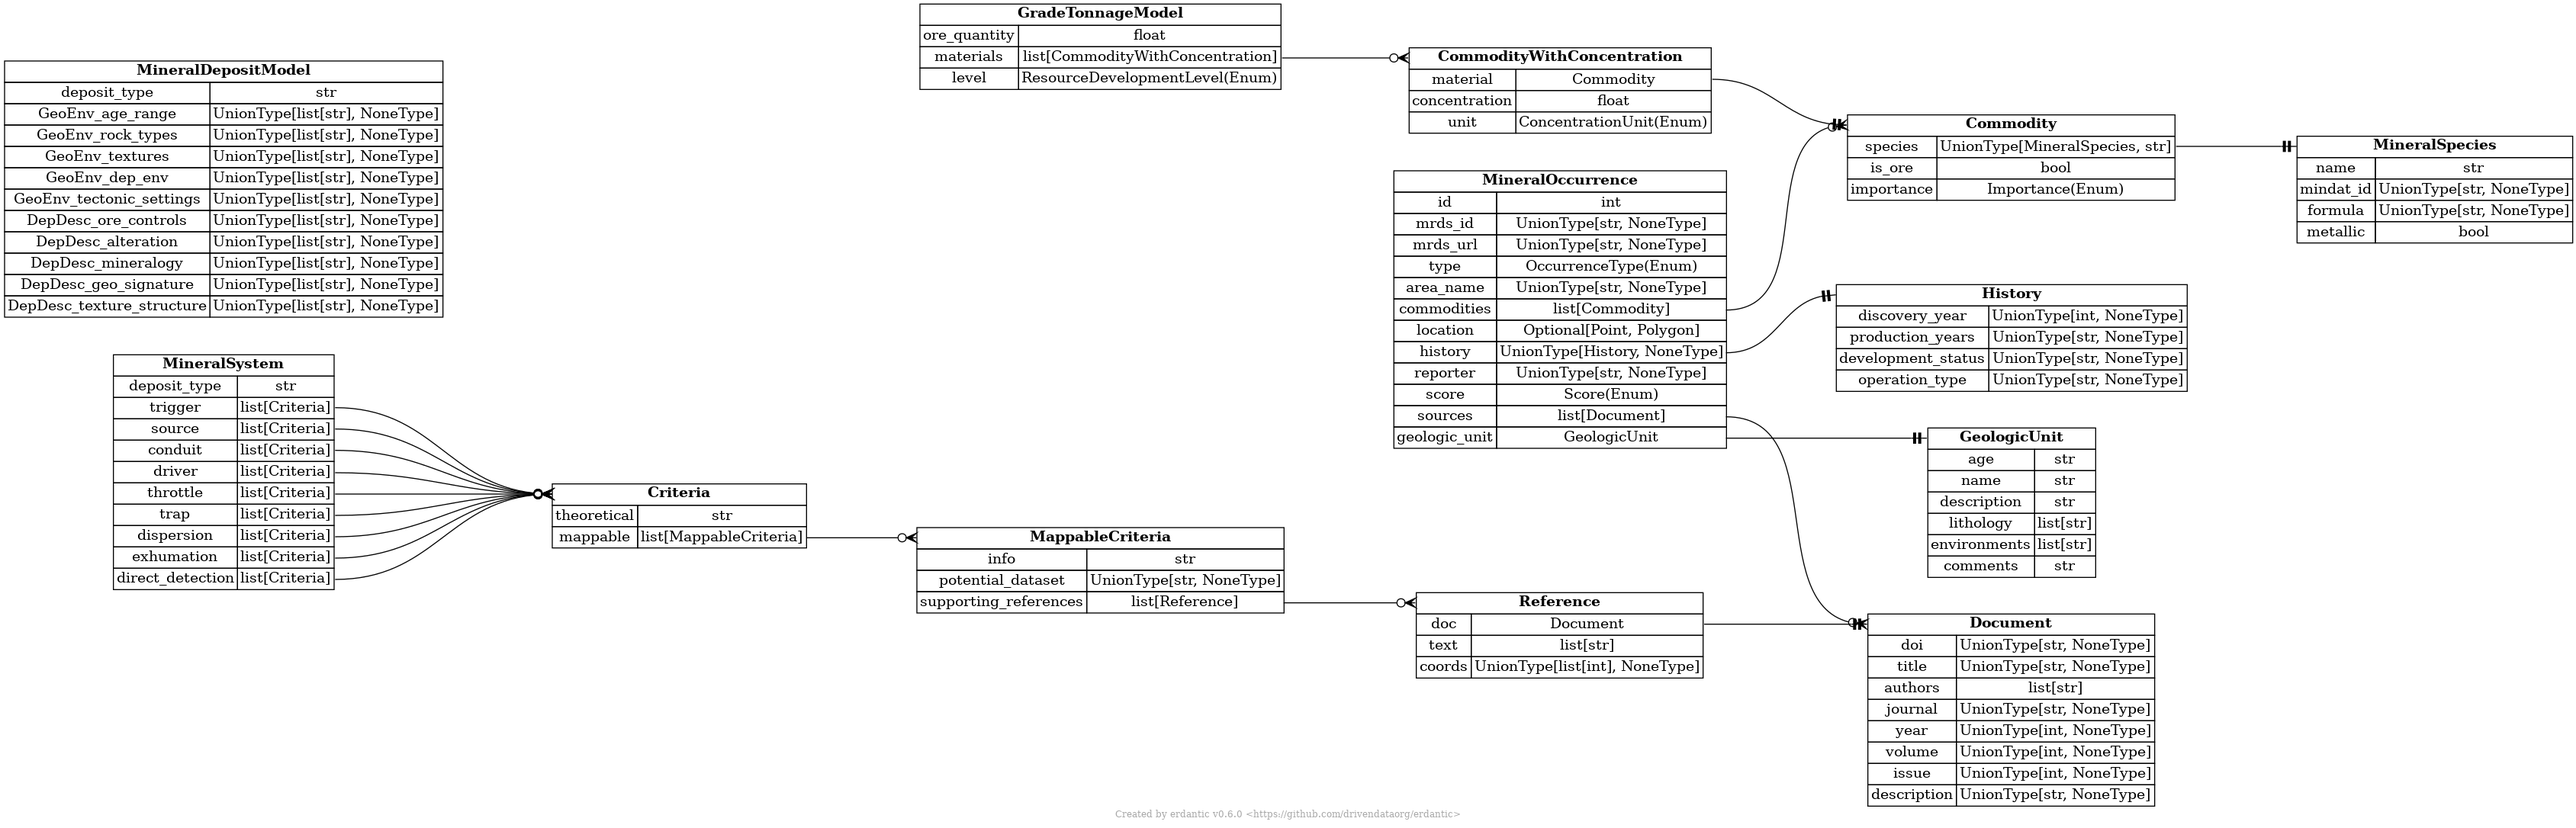
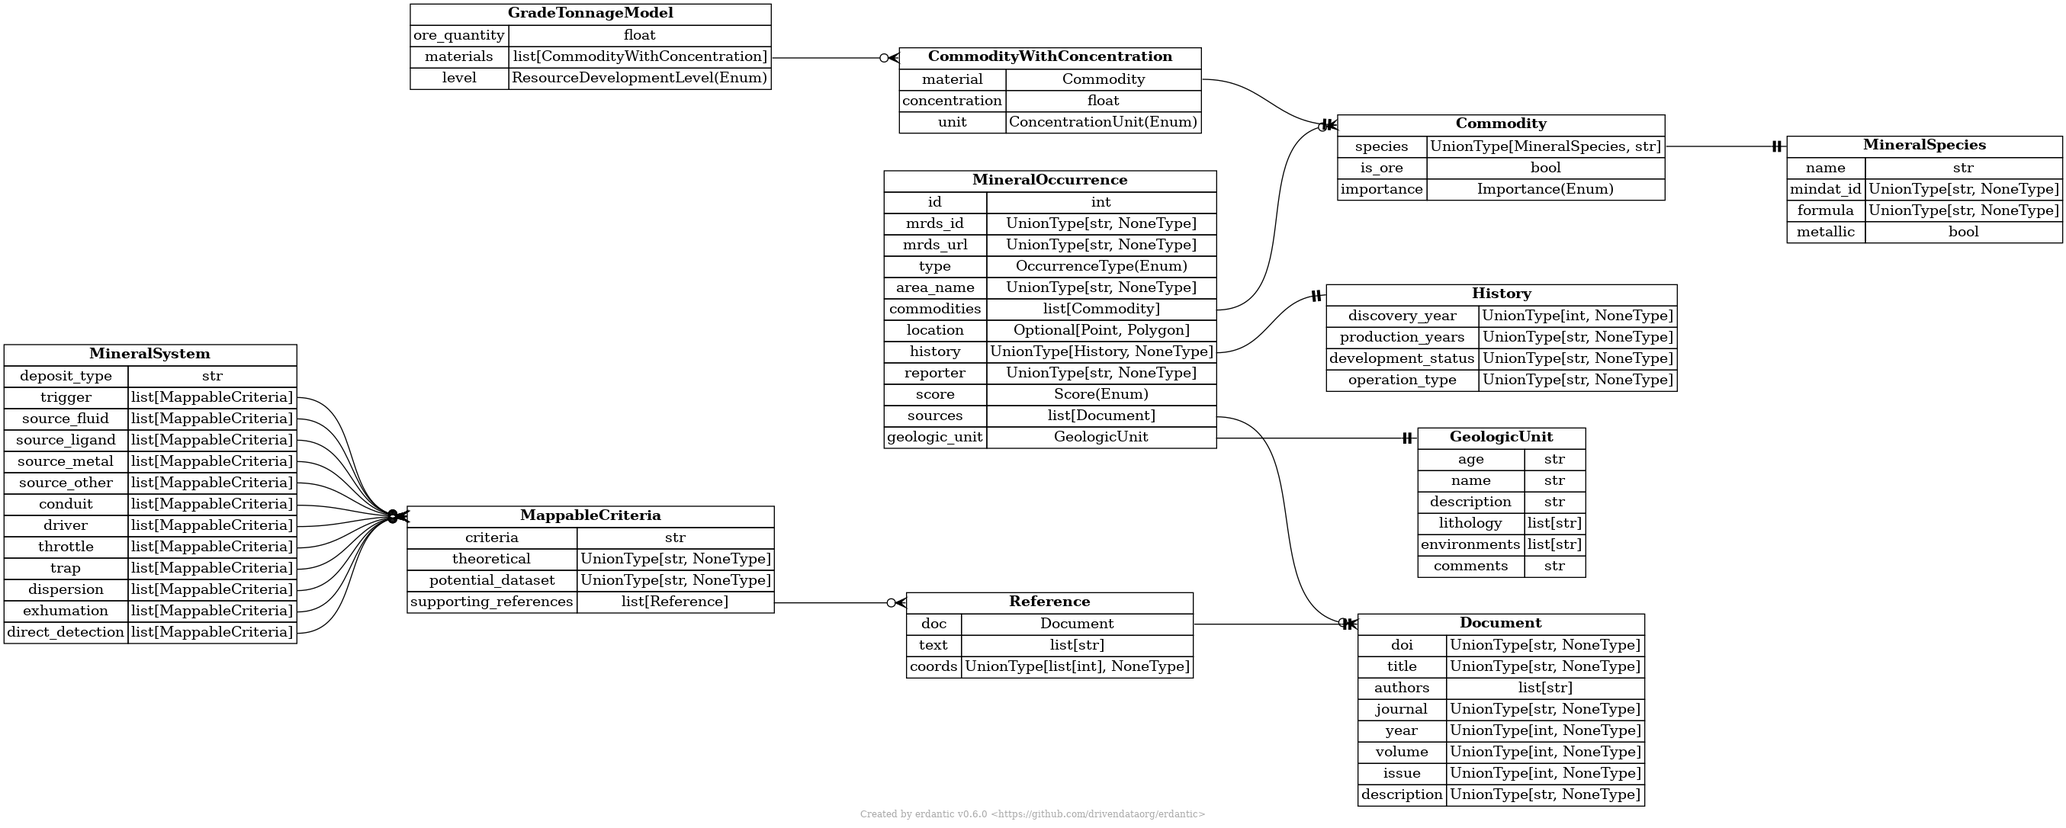
mappable criteria update

Changed region(s): [[0.0, 0.0608, 0.8372, 0.9724], [0.186, 0.0, 1.0, 0.6989], [0.4341, 0.9724, 0.5891, 1.0]]

diff --git a/ta2/output.md b/ta2/output.md
@@ -37,62 +37,6 @@
   - **Items**: Refer to *[Document](#Document)*.
 - **`geologic_unit`**: Refer to *[GeologicUnit](#GeologicUnit)*.
 
-## MineralDepositModel
-
-### Properties
-
-- **`deposit_type`** *(string)*
-- **`GeoEnv_age_range`**
-  - **Any of**
-    - *array*
-      - **Items** *(string)*
-    - *null*
-- **`GeoEnv_rock_types`**
-  - **Any of**
-    - *array*
-      - **Items** *(string)*
-    - *null*
-- **`GeoEnv_textures`**
-  - **Any of**
-    - *array*
-      - **Items** *(string)*
-    - *null*
-- **`GeoEnv_dep_env`**
-  - **Any of**
-    - *array*
-      - **Items** *(string)*
-    - *null*
-- **`GeoEnv_tectonic_settings`**
-  - **Any of**
-    - *array*
-      - **Items** *(string)*
-    - *null*
-- **`DepDesc_ore_controls`**
-  - **Any of**
-    - *array*
-      - **Items** *(string)*
-    - *null*
-- **`DepDesc_alteration`**
-  - **Any of**
-    - *array*
-      - **Items** *(string)*
-    - *null*
-- **`DepDesc_mineralogy`**
-  - **Any of**
-    - *array*
-      - **Items** *(string)*
-    - *null*
-- **`DepDesc_geo_signature`**
-  - **Any of**
-    - *array*
-      - **Items** *(string)*
-    - *null*
-- **`DepDesc_texture_structure`**
-  - **Any of**
-    - *array*
-      - **Items** *(string)*
-    - *null*
-
 ## GradeTonnageModel
 
 ### Properties
@@ -110,23 +54,29 @@
 
 - **`deposit_type`** *(string)*
 - **`trigger`** *(array)*
-  - **Items**: Refer to *[Criteria](#Criteria)*.
-- **`source`** *(array)*
-  - **Items**: Refer to *[Criteria](#Criteria)*.
+  - **Items**: Refer to *[MappableCriteria](#MappableCriteria)*.
+- **`source_fluid`** *(array)*
+  - **Items**: Refer to *[MappableCriteria](#MappableCriteria)*.
+- **`source_ligand`** *(array)*
+  - **Items**: Refer to *[MappableCriteria](#MappableCriteria)*.
+- **`source_metal`** *(array)*
+  - **Items**: Refer to *[MappableCriteria](#MappableCriteria)*.
+- **`source_other`** *(array)*
+  - **Items**: Refer to *[MappableCriteria](#MappableCriteria)*.
 - **`conduit`** *(array)*
-  - **Items**: Refer to *[Criteria](#Criteria)*.
+  - **Items**: Refer to *[MappableCriteria](#MappableCriteria)*.
 - **`driver`** *(array)*
-  - **Items**: Refer to *[Criteria](#Criteria)*.
+  - **Items**: Refer to *[MappableCriteria](#MappableCriteria)*.
 - **`throttle`** *(array)*
-  - **Items**: Refer to *[Criteria](#Criteria)*.
+  - **Items**: Refer to *[MappableCriteria](#MappableCriteria)*.
 - **`trap`** *(array)*
-  - **Items**: Refer to *[Criteria](#Criteria)*.
+  - **Items**: Refer to *[MappableCriteria](#MappableCriteria)*.
 - **`dispersion`** *(array)*
-  - **Items**: Refer to *[Criteria](#Criteria)*.
+  - **Items**: Refer to *[MappableCriteria](#MappableCriteria)*.
 - **`exhumation`** *(array)*
-  - **Items**: Refer to *[Criteria](#Criteria)*.
+  - **Items**: Refer to *[MappableCriteria](#MappableCriteria)*.
 - **`direct_detection`** *(array)*
-  - **Items**: Refer to *[Criteria](#Criteria)*.
+  - **Items**: Refer to *[MappableCriteria](#MappableCriteria)*.
 
 ## Commodity
 
@@ -184,14 +134,6 @@
 - **`unit`**: Unit of concentration.
   - **All of**
     - : Refer to *[ConcentrationUnit](#ConcentrationUnit)*.
-
-## Criteria
-
-### Properties
-
-- **`theoretical`** *(string)*
-- **`mappable`** *(array)*
-  - **Items**: Refer to *[MappableCriteria](#MappableCriteria)*.
 
 ## Document
 
@@ -266,7 +208,11 @@
 
 ### Properties
 
-- **`info`** *(string)*
+- **`criteria`** *(string)*
+- **`theoretical`**
+  - **Any of**
+    - *string*
+    - *null*
 - **`potential_dataset`**
   - **Any of**
     - *string*
